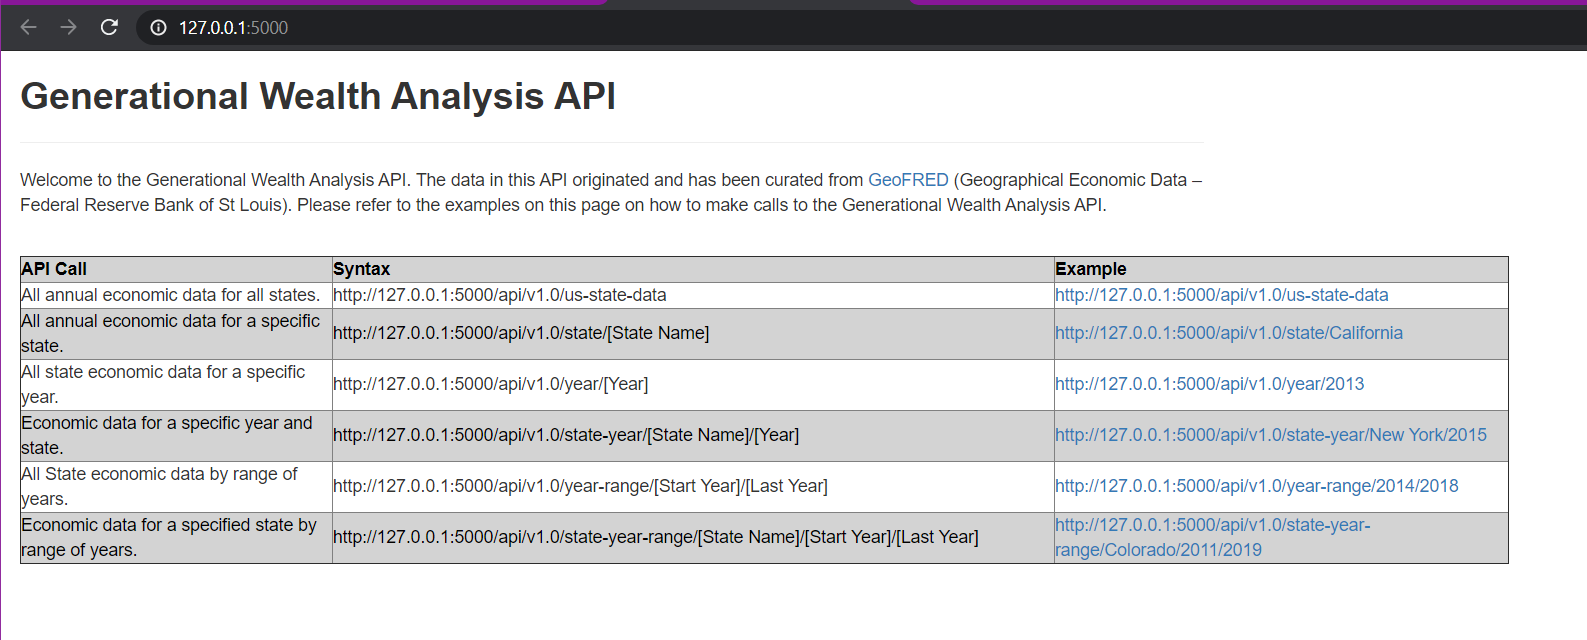
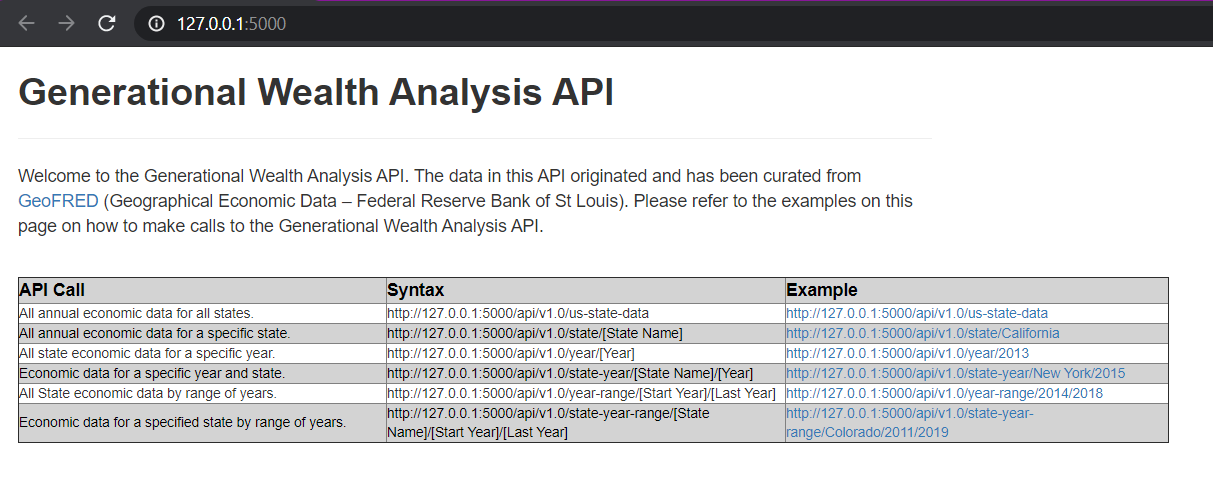
cleanup flask

diff --git a/templates/flaskapp.html b/templates/flaskapp.html
@@ -14,6 +14,12 @@
             background-color: lightgrey;
             color: black
             }
+        td {
+            font-size : 11px
+        }
+        th {
+            width : 250px
+        }
 
     </style>
     </head>
@@ -31,9 +37,9 @@
                 <div class="col-md-10">
                     <table border="1" class="table-striped table-sm table-responsive-sm" style="width: 100%">
                         <tr>
-                          <th width=200px>API Call</th>
-                          <th width=500px>Syntax</th>
-                          <th width=300px>Example</th>
+                          <th>API Call</th>
+                          <th>Syntax</th>
+                          <th>Example</th>
                         </tr>
                         <tr>
                           <td>All annual economic data for all states.</td>
